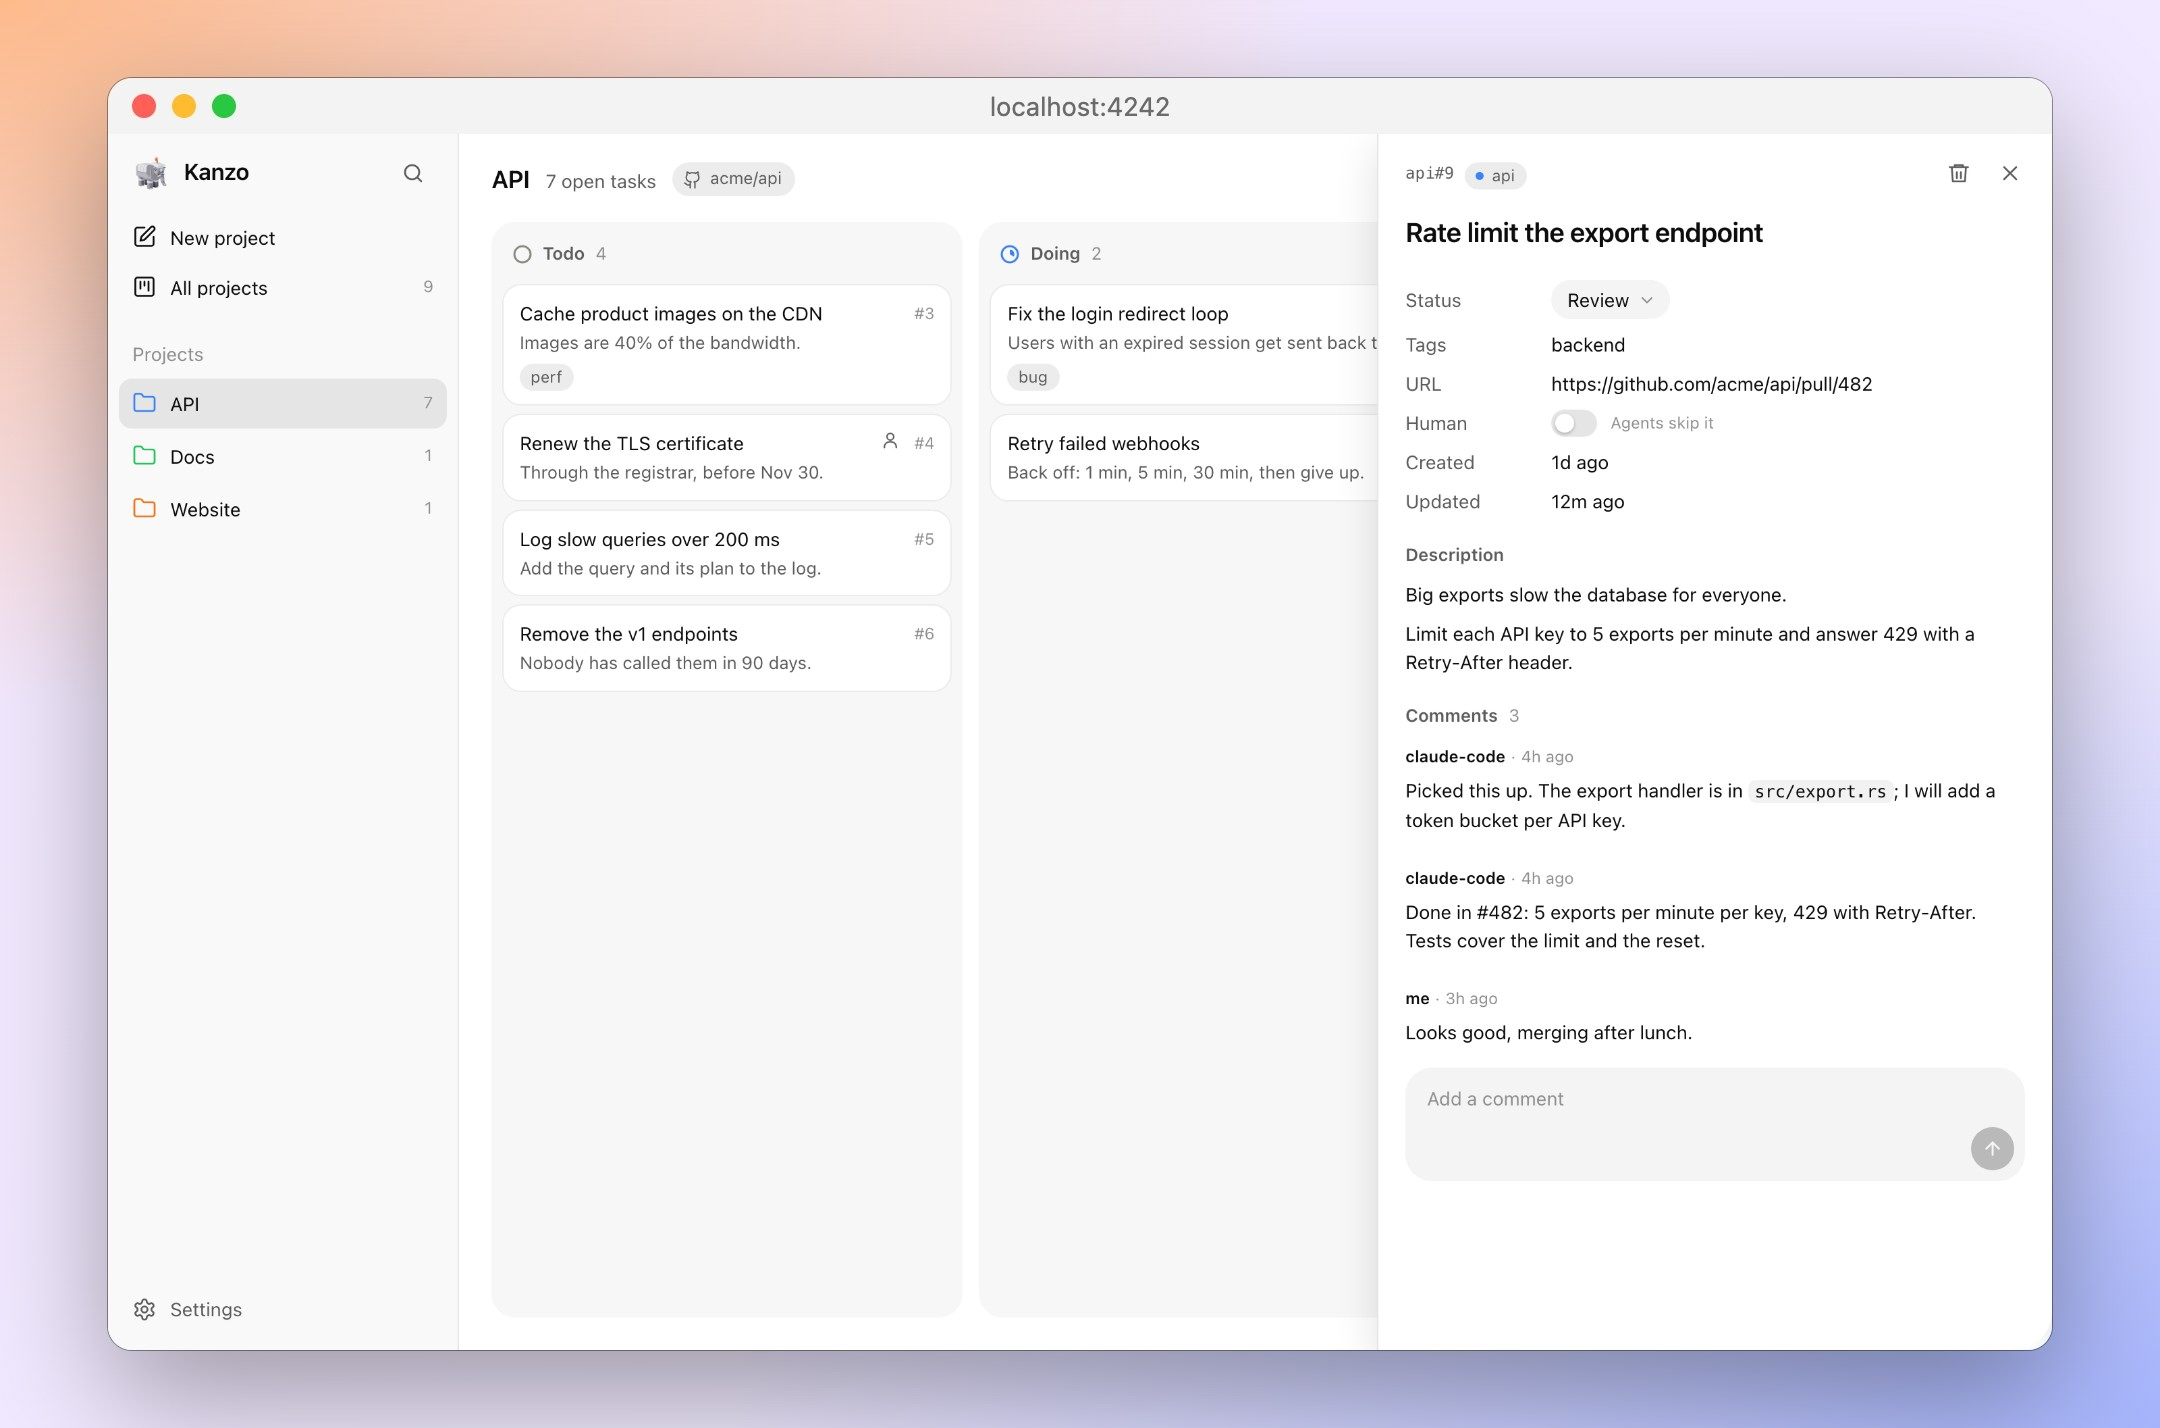
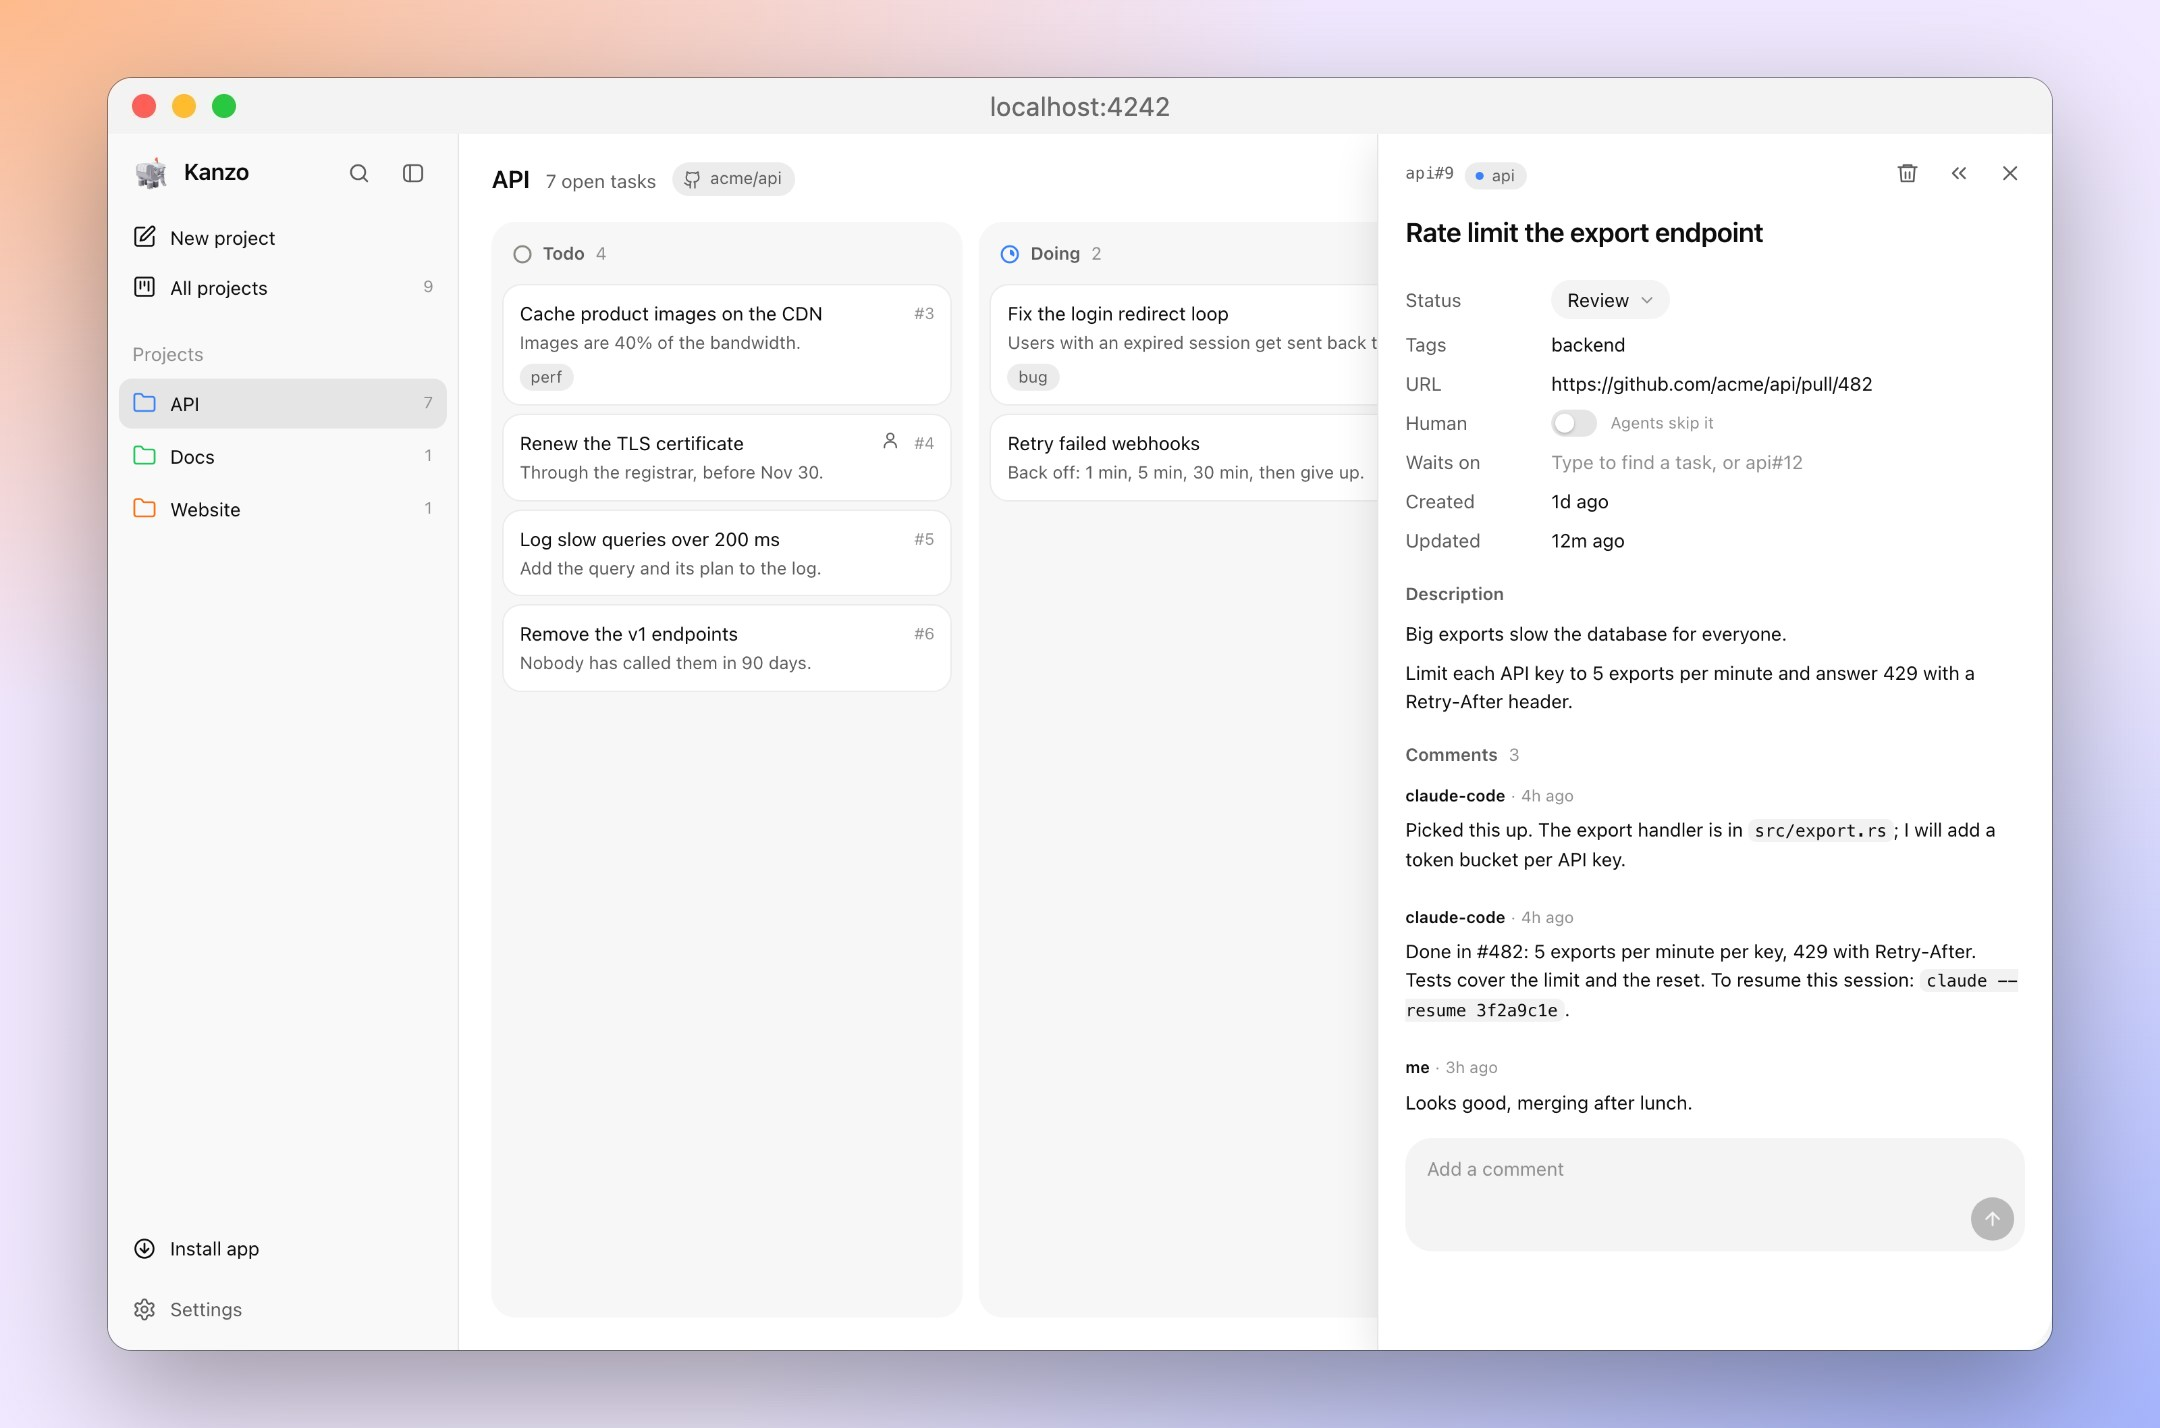
Show the new features in the README pictures
The GIF now also shows a task waiting on another, two selected tasks
dragged together, the list view and the folded sidebar. It runs 46 s
instead of 33, and grows from 1.6 MB to 2.5 MB (light) and from 1.1 MB to
2.2 MB (dark); neither is in the binary.

The stills show the current board. The task's comment says how to resume
the session, the filter uses is:waiting, and Waits on gets its own picture.

diff --git a/README.md b/README.md
@@ -21,7 +21,7 @@ You never edit a file. Everything is done in one of three places:
 
 <picture>
   <source media="(prefers-color-scheme: dark)" srcset="docs/img/board-dark.gif">
-  <img alt="The Kanzo board: agents move cards while you watch, ⌘K finds a task in any project, Laptop A shares the board and Laptop B joins it" src="docs/img/board-light.gif">
+  <img alt="The Kanzo board: agents move cards while you watch, ⌘K finds a task in any project, a task is made to wait on another, two selected tasks are dragged together, a list groups the tasks by status, the sidebar folds, Laptop A shares the board and Laptop B joins it" src="docs/img/board-light.gif">
 </picture>
 
 ## Install
@@ -78,11 +78,11 @@ codex mcp add kanzo -- kanzo mcp                 # Codex
 
 Other MCP clients: run `kanzo mcp` (apps like Raycast need the full path, from `which kanzo`), or use the running board at `http://localhost:4242/mcp`.
 
-Then ask: *"take the next task from kanzo and do it."* The agent moves the card to `doing` and comments as it works. It finds the right project from the git remote of the repo it works in; link more repos to a project from its ⋯ menu.
+Then ask: *"take the next task from kanzo and do it."* The agent moves the card to `doing` and comments as it works; when it reaches `review`, a comment says how to resume its session. It finds the right project from the git remote of the repo it works in; link more repos to a project from its ⋯ menu.
 
 <picture>
   <source media="(prefers-color-scheme: dark)" srcset="docs/img/task-dark.jpg">
-  <img alt="A task open on the board, with Claude Code's comments and a reply" src="docs/img/task-light.jpg">
+  <img alt="A task open on the board, with Claude Code's comments, one saying how to resume its session, and a reply" src="docs/img/task-light.jpg">
 </picture>
 
 ## Park ideas in a backlog
@@ -99,7 +99,12 @@ Turn on Backlog in Settings for a column agents leave alone, until you move its 
 > [!TIP]
 > **Just ask your agent:** *"make kanzo#12 wait on #10 and #11."*
 
-In a task's panel, type in Waits on to find other tasks in its project and pick them, or have agents pass `waits_on`. Until those tasks are done, `next_task` skips it, and its card is dimmed and says what it waits on. Only `done` counts: a task in `review` still blocks. Nothing stops you from moving a waiting task yourself.
+In a task's panel, type in Waits on to find other tasks in its project and pick them, or have agents pass `waits_on`. Until those tasks are done, `next_task` skips it, and its card is dimmed and says what it waits on. Only `done` counts: a task in `review` still blocks. Nothing stops you from moving a waiting task yourself. To see only these tasks, filter by `is:waiting`.
+
+<picture>
+  <source media="(prefers-color-scheme: dark)" srcset="docs/img/waits-dark.jpg">
+  <img alt="A task's panel with log typed in Waits on, offering two tasks to pick, beside a dimmed card that says Waits on #7" src="docs/img/waits-light.jpg">
+</picture>
 
 ## Filter and search
 
@@ -110,7 +115,7 @@ The board's filter (`f`), search (`/`) and the `filter` of `list_tasks` and `nex
 
 <picture>
   <source media="(prefers-color-scheme: dark)" srcset="docs/img/filter-dark.jpg">
-  <img alt="The board filtered by a saved tag:backend chip and -status:todo in the filter box, with the two matching tasks and their tag highlighted" src="docs/img/filter-light.jpg">
+  <img alt="The board filtered by a saved tag:backend chip and is:waiting in the filter box, with the two matching tasks, each saying what it waits on" src="docs/img/filter-light.jpg">
 </picture>
 
 | Qualifier | Finds | Example |
